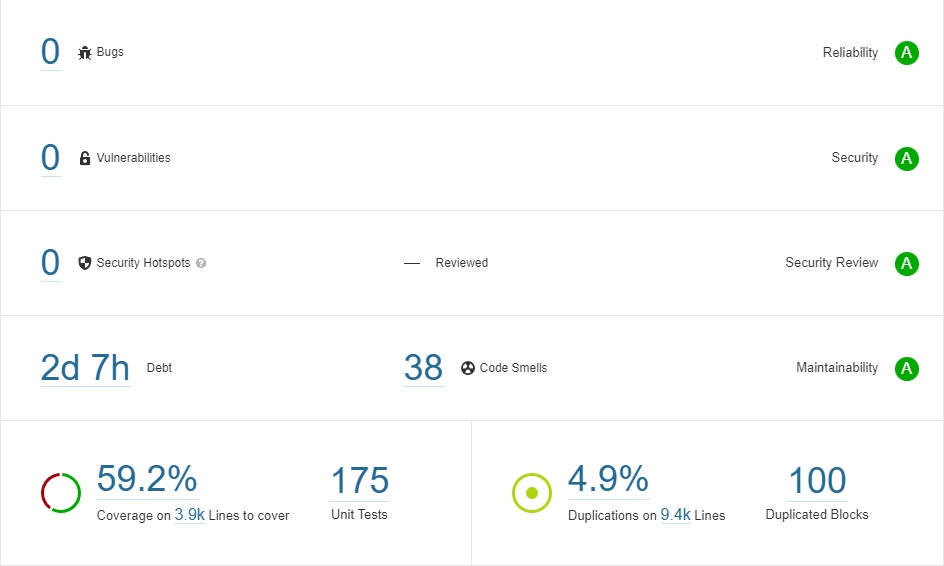
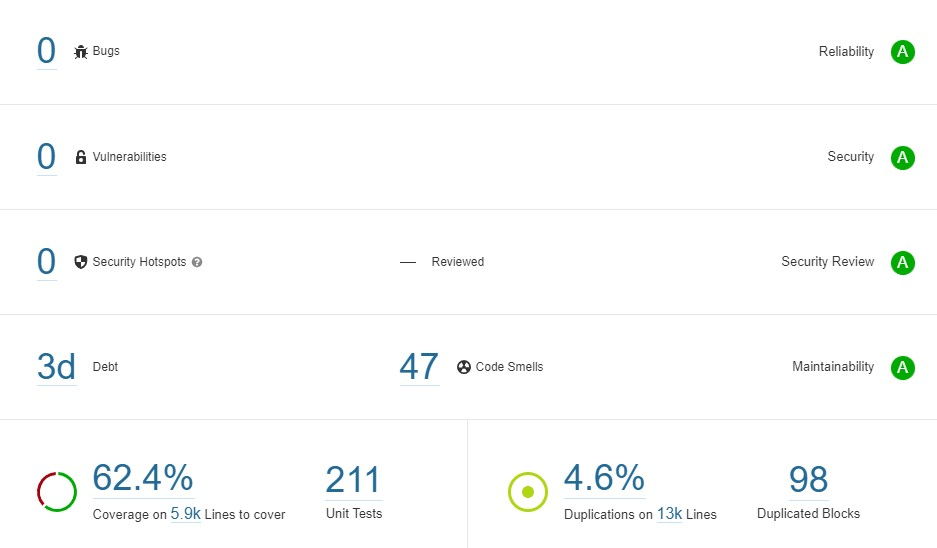
Release Notes for the Verifier 1.1

diff --git a/CHANGELOG.md b/CHANGELOG.md
@@ -1,3 +1,25 @@
 # Changelog
 
-## Release 1.0.0.0
+## Release 1.1
+
+Release 1.1 fixes the following known issues and incorporates feedback from the Federal Chancellery's mandated experts.
+We want to thank the experts for their high-quality, constructive remarks:
+
+* Vanessa Teague (Thinking Cybersecurity), Olivier Pereira (Université catholique Louvain), Thomas Edmund Haines (Australian National University)
+* Aleksander Essex (Western University Canada)
+* Rolf Haenni, Reto Koenig, Philipp Locher, Eric Dubuis (Bern University of Applied Sciences)
+
+Release 1.1 includes the following functionalities and improvements:
+
+* Enforced the security level EXTENDED (3072 bit modulus) in the algorithm VerifyEncryptionParameters (feedback from Aleksander Essex, Rolf Haenni, Reto Koenig, Philipp Locher, Eric Dubuis, Vanessa Teague, Olivier Pereira, and Thomas Haines).
+* Implemented the verification of the proper decoding of voting options and the generation of the tally files (feedback from Rolf Haenni, Reto Koenig, Philipp Locher, and Eric Dubuis).
+* Included the primes mapping table in the VerifyVotingClientProofs algorithm to ensure that all parties have a consistent view (feedback from Rolf Haenni, Reto Koenig, Philipp Locher, and Eric Dubuis).
+* Implemented the verification of the Schnorr Proof algorithms in the algorithm VerifyKeyGenerationSchnorrProofs and added corresponding consistency checks (feedback Vanessa Teague, Olivier Pereira, and Thomas Haines).
+* Added additional consistency checks in the VerifyTally phase (feedback from Vanessa Teague, Olivier Pereira, and Thomas Haines).
+* Implemented the DecodeVotingOptions algorithm and included it in the ProcessPlaintexts algorithm (feedback from Rolf Haenni, Reto Koenig, Philipp Locher, Eric Dubuis, Vanessa Teague, Olivier Pereira, and Thomas Haines).
+* Fixed the incorrect ordering when reading files from the file system (fixes [GitLab Issue #3](https://gitlab.com/swisspost-evoting/verifier/verifier/-/issues/3)).
+* Improved the input validation in the method VerifyEncryptedPCCExponentiationProofsVerificationCardSetAlgorithm.
+* Implemented the verification of the direct trust signatures of the configuration, decryption and eCH-0110 files.
+* Enforced the domain of the actual voting options.
+* Migrated the JKS keystores to the standard PKCS12 keystores.
+* Updated dependencies and third-party libraries.

diff --git a/README.md b/README.md
@@ -38,19 +38,23 @@ We strive for excellent code quality to minimize the risk of bugs and vulnerabil
 ### SonarQube Analysis
 
 We parametrize SonarQube with the built-in Sonar way quality profile. The SonarQube analysis of the verifier code reveals 0 bugs, 0 vulnerabilities, 0
-security hotspots, and 38 code smells.
+security hotspots, and 47 code smells.
 
 ![SonarQube](SonarQube_Verifier.jpg)
 
-The verifier contains 38 code smells in the code. [Code smells](https://docs.sonarqube.org/latest/user-guide/concepts/) are
+The verifier contains 47 code smells in the code. [Code smells](https://docs.sonarqube.org/latest/user-guide/concepts/) are
 maintainability-related issues that might increase the likelihood of errors in future code changes but do not directly impact the code's security and
 robustness. An example would be a method that contains too many if/else statements, therefore has a high cognitive complexity, hence is difficult to
-maintain. 37 out of the 38 code smells stem from a deprecated code duplication rule. The verifier's code base incurs some code duplication since every verification class uses a specific template defining the verification IDs
+maintain. 46 out of the 47 code smells stem from a deprecated code duplication rule. The verifier's code base incurs some code duplication since every verification class uses a specific template defining the verification IDs
 and category.
 
 ### JFrog X-Ray Analysis
 
-At the time of writing (August 2022), the published source code does not contain any declared dependencies with known vulnerabilities.
+At the time of writing (October 2022), the published source code does not contain any declared dependencies with known vulnerabilities.
+
+## Changelog
+
+An overview of all major changes within the published releases is available [here.](CHANGELOG.md)
 
 ## Future Work
 